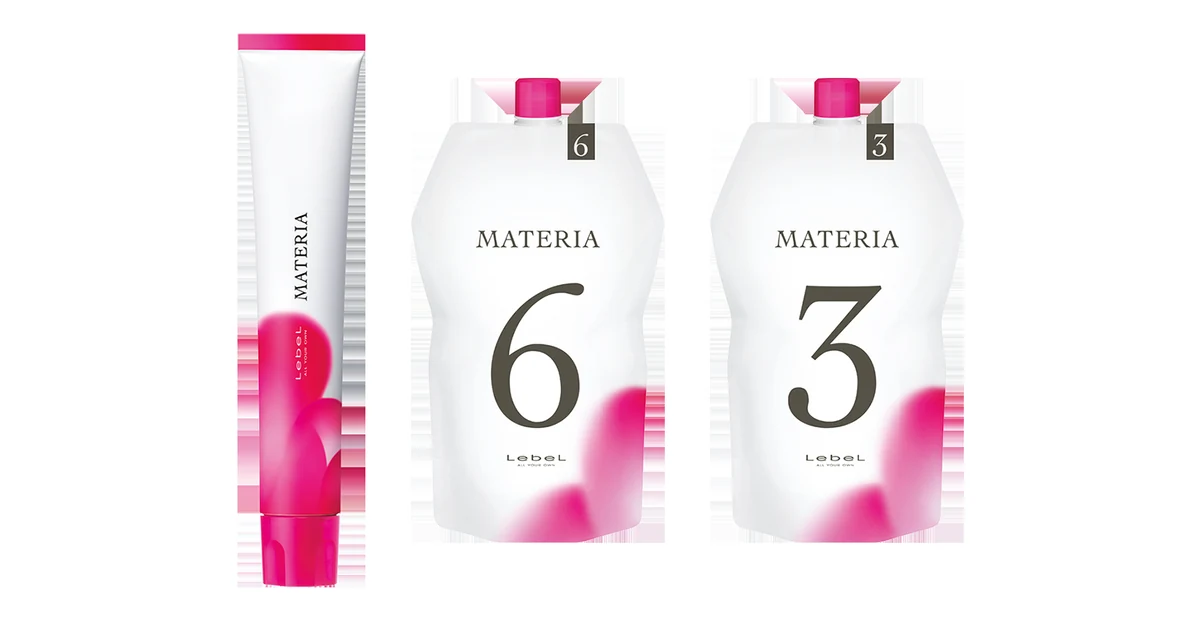
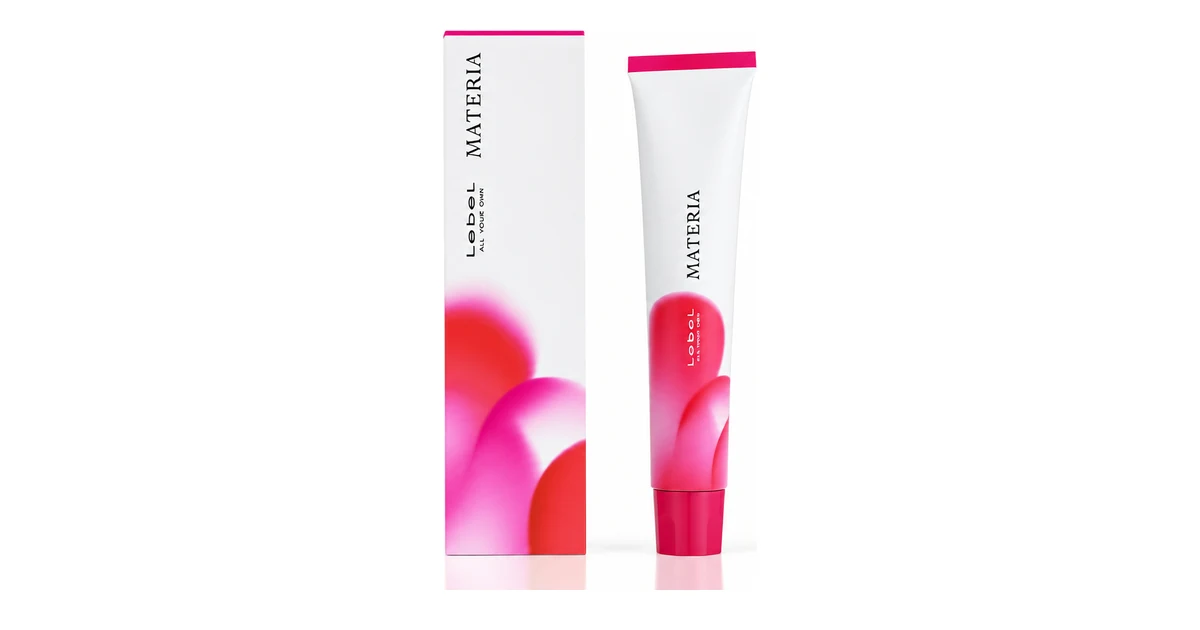
MATERIA: обложка в ленте — туба с упаковкой
Пользователь попросил поменять картинку на главной: в карточке ленты стояла
композиция из тубы и двух оксидантов, теперь тот же снимок тубы с упаковкой,
что и в начале статьи.

Скрипт build-materia-cover.py удалён. При повторном запуске он молча
перезаписывал присланные пользователем картинки официальной композицией — и
один раз это уже сделал с фото оксидантов. Ссылки на официальные фото Lebel
перенесены в docs/2026-09-11-lebel-materia-g-mu-notes.md, вместе с причиной,
почему скрипта больше нет.

Claude-Session: https://claude.ai/code/session_01NkinqstRE8rfHXSEDJtFDw

diff --git a/docs/2026-09-11-lebel-materia-g-mu-notes.md b/docs/2026-09-11-lebel-materia-g-mu-notes.md
@@ -53,3 +53,22 @@
 Чтобы не дублировать при написании следующих двух: буквенный код тона (тон-уровень),
 21 тоновое семейство, три пропорции по уровням (1+1 / 1+2 / 1+3), разбор оксидантов
 3 / 4,5 / 6% и приём «4,5% смешивается из 3% и 6%», расход состава, эмульгирование.
+
+## Официальные фото товаров Lebel — откуда брать
+
+Страница серии: https://www.lebel-takara.com/products/series/materia/ — там же лежат прямые
+ссылки на фото на белом фоне, пригодные для обложек:
+
+- краска MATERIA — `https://www.lebel-takara.com/cms/wp-content/uploads/2020/10/c_materia.png`
+- MATERIA μ — `.../c_materia_m.png`
+- MATERIA OXY W 3% — `.../c_materia_oxyw_3.png`
+- MATERIA OXY W 6% — `.../c_materia_oxyw_6.png`
+
+Брать именно оттуда, а не из поиска картинок: упаковка у бренда по регионам отличается, и
+«похожее фото» легко оказывается другим рынком или прошлым дизайном.
+
+**Скрипт, который собирал из них картинки для статьи о MATERIA, удалён намеренно.** В
+статье стоят снимки, присланные пользователем (туба с упаковкой, оксиданты из PSD), а
+скрипт при повторном запуске молча затирал их официальной композицией — ровно это один раз
+и произошло. Понадобится сборка картинки из официальных фото — писать под конкретную
+статью и не давать ей перезаписывать чужие файлы.
